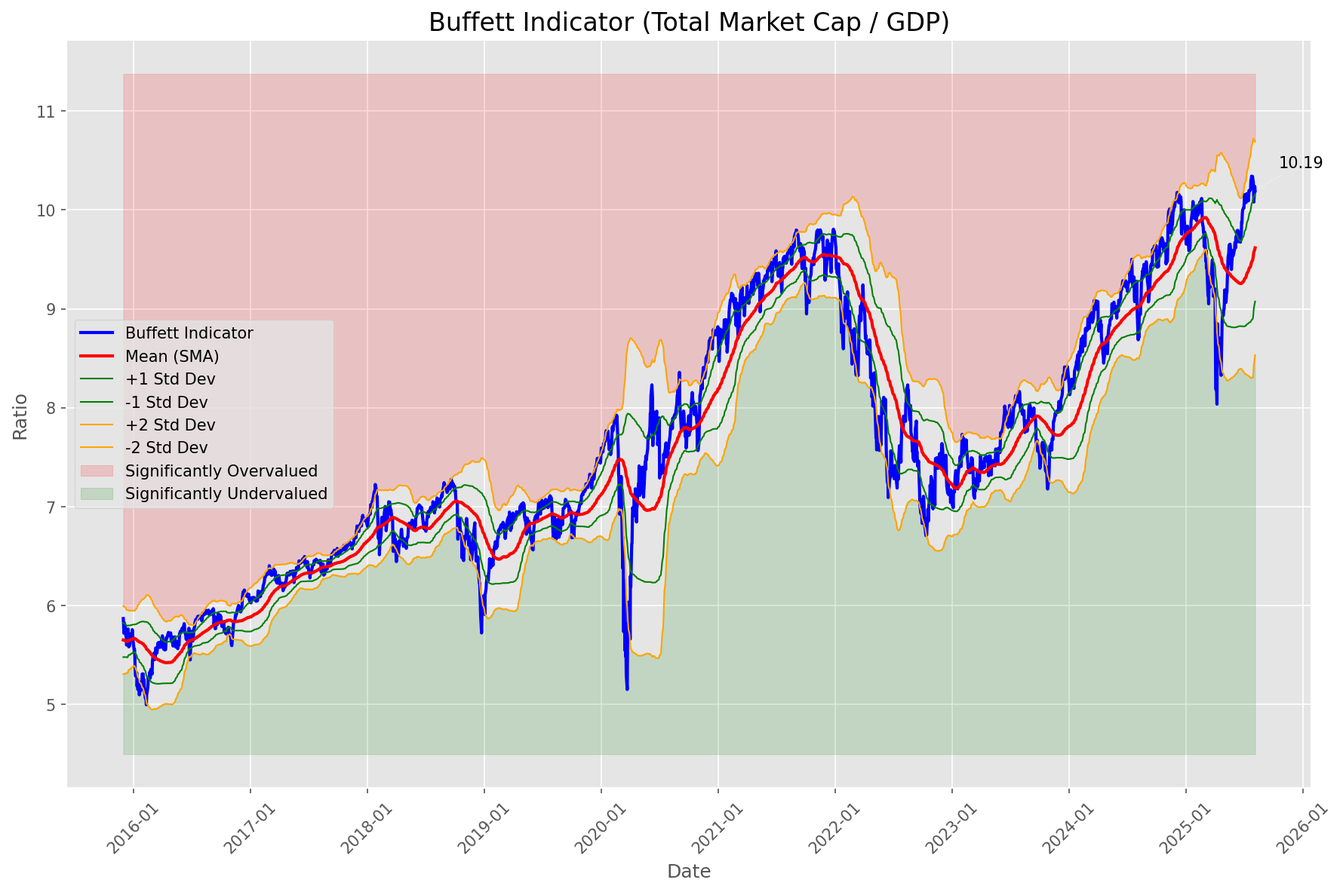
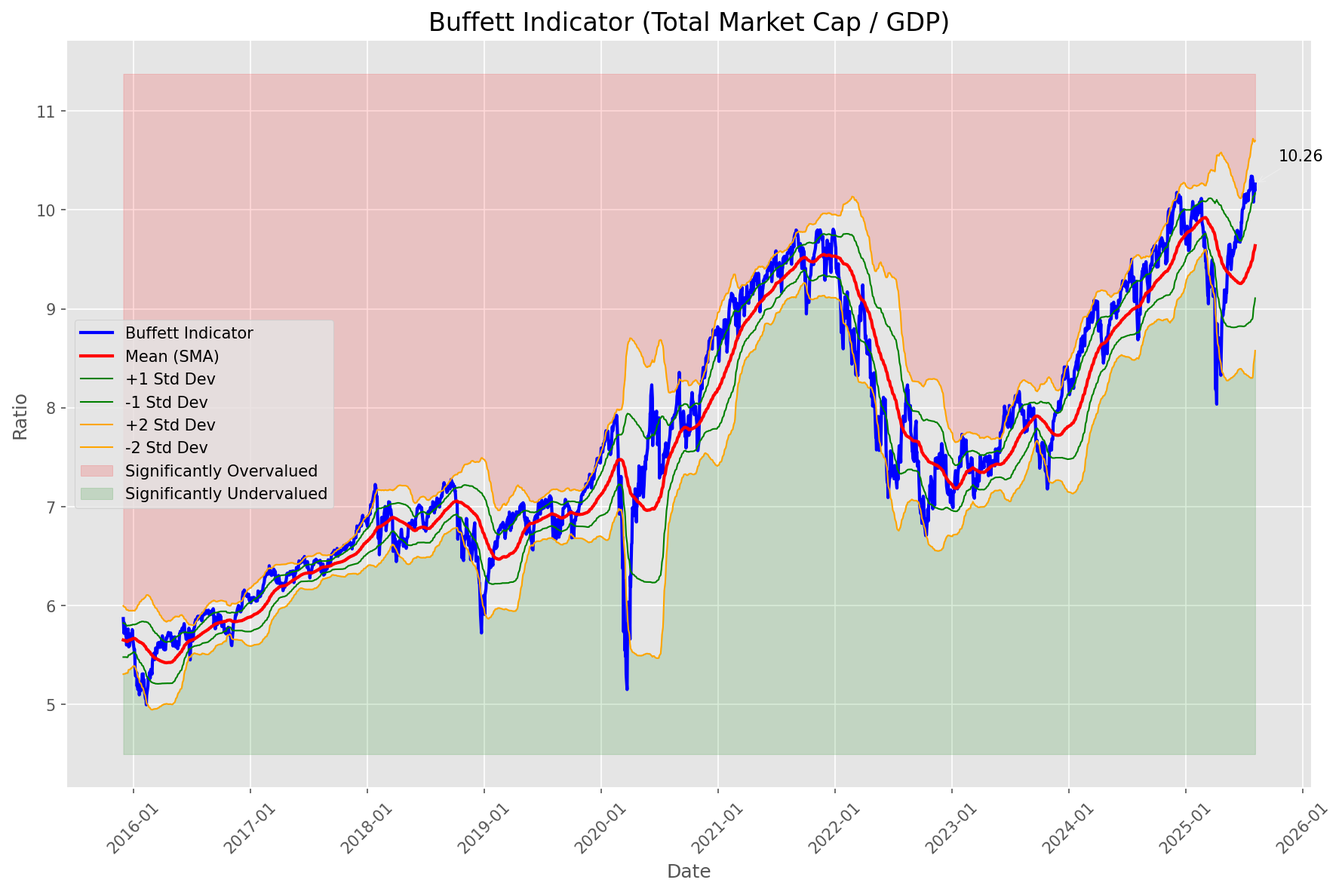
Add market report for 2025-08-07

diff --git a/oneil_relative_strength_report_2025-08-07.md b/oneil_relative_strength_report_2025-08-07.md
@@ -9,11 +9,11 @@
 | Metric | Value |
 |--------|-------|
 | **Market Valuation** | **Overvalued** |
-| **Current Ratio** | 10.26 |
-| **Historical Mean** | 9.62 |
-| **Standard Deviation** | 0.54 |
-| **Z-Score (StdDev from Mean)** | 1.06 |
-| **Total Market Cap** | $311.25 trillion |
+| **Current Ratio** | 10.29 |
+| **Historical Mean** | 9.64 |
+| **Standard Deviation** | 0.53 |
+| **Z-Score (StdDev from Mean)** | 1.17 |
+| **Total Market Cap** | $312.01 trillion |
 | **GDP** | $30.33 trillion |
 
 ## **Market Insights**
@@ -49,41 +49,41 @@ Based on William O'Neil's Relative Strength Methodology
 
 | ETF | Strength | RS Rating | Performance | Above Key MAs | Trend | Sector |
 |-----|----------|-----------|-------------|--------------|-------|--------|
-| [URA](https://www.tradingview.com/chart/?symbol=URA) | 98.5 | 97.0 | 56.08% | 10d ✓, 50d ✓, 200d ✓ | ↗ | Uranium |
+| [ARKK](https://www.tradingview.com/chart/?symbol=ARKK) | 98.0 | 96.0 | 50.46% | 10d ✓, 50d ✓, 200d ✓ | ↗ | Innovation |
+| [ARKF](https://www.tradingview.com/chart/?symbol=ARKF) | 98.0 | 96.0 | 50.90% | 10d ✓, 50d ✓, 200d ✓ | ↗ | Fintech Innovation |
 | [ARKW](https://www.tradingview.com/chart/?symbol=ARKW) | 98.0 | 96.0 | 53.80% | 10d ✓, 50d ✓, 200d ✓ | ↗ | Next Generation Internet |
-| [ARKF](https://www.tradingview.com/chart/?symbol=ARKF) | 98.0 | 96.0 | 50.77% | 10d ✓, 50d ✓, 200d ✓ | ↗ | Fintech Innovation |
-| [XLK](https://www.tradingview.com/chart/?symbol=XLK) | 91.5 | 83.0 | 23.11% | 10d ✓, 50d ✓, 200d ✓ | ↗ | Technology |
-| [ARKK](https://www.tradingview.com/chart/?symbol=ARKK) | 88.1 | 96.0 | 52.03% | 10d ✗, 50d ✓, 200d ✓ | ↗ | Innovation |
-| [AIQ](https://www.tradingview.com/chart/?symbol=AIQ) | 88.0 | 76.0 | 18.16% | 10d ✓, 50d ✓, 200d ✓ | ↗ | Artificial Intelligence & Technology |
+| [URA](https://www.tradingview.com/chart/?symbol=URA) | 98.0 | 96.0 | 51.40% | 10d ✓, 50d ✓, 200d ✓ | ↗ | Uranium |
+| [XLK](https://www.tradingview.com/chart/?symbol=XLK) | 91.0 | 82.0 | 22.87% | 10d ✓, 50d ✓, 200d ✓ | ↗ | Technology |
+| [AIQ](https://www.tradingview.com/chart/?symbol=AIQ) | 88.5 | 77.0 | 18.73% | 10d ✓, 50d ✓, 200d ✓ | ↗ | Artificial Intelligence & Technology |
+| [SLV](https://www.tradingview.com/chart/?symbol=SLV) | 88.0 | 76.0 | 17.94% | 10d ✓, 50d ✓, 200d ✓ | ↗ | Silver |
 | [BLOK](https://www.tradingview.com/chart/?symbol=BLOK) | 86.6 | 93.0 | 38.74% | 10d ✗, 50d ✓, 200d ✓ | ↗ | Blockchain & Cryptocurrency |
-| [SLV](https://www.tradingview.com/chart/?symbol=SLV) | 85.0 | 70.0 | 13.67% | 10d ✓, 50d ✓, 200d ✓ | ↗ | Silver |
-| [XLY](https://www.tradingview.com/chart/?symbol=XLY) | 84.0 | 68.0 | 13.12% | 10d ✓, 50d ✓, 200d ✓ | ↗ | Consumer Discretionary |
-| [XLC](https://www.tradingview.com/chart/?symbol=XLC) | 81.0 | 62.0 | 10.35% | 10d ✓, 50d ✓, 200d ✓ | ↗ | Communications |
+| [XLY](https://www.tradingview.com/chart/?symbol=XLY) | 83.5 | 67.0 | 12.35% | 10d ✓, 50d ✓, 200d ✓ | ↗ | Consumer Discretionary |
+| [XLC](https://www.tradingview.com/chart/?symbol=XLC) | 81.0 | 62.0 | 10.43% | 10d ✓, 50d ✓, 200d ✓ | ↗ | Communications |
 | [IYZ](https://www.tradingview.com/chart/?symbol=IYZ) | 80.5 | 61.0 | 9.82% | 10d ✓, 50d ✓, 200d ✓ | ↗ | Telecommunications |
-| [PAVE](https://www.tradingview.com/chart/?symbol=PAVE) | 76.6 | 73.0 | 15.51% | 10d ✗, 50d ✓, 200d ✓ | ↗ | Infrastructure |
-| [XLU](https://www.tradingview.com/chart/?symbol=XLU) | 76.0 | 52.0 | 6.33% | 10d ✓, 50d ✓, 200d ✓ | ↗ | Utilities |
-| [JETS](https://www.tradingview.com/chart/?symbol=JETS) | 75.6 | 71.0 | 14.46% | 10d ✗, 50d ✓, 200d ✓ | ↗ | Airlines |
-| [KWEB](https://www.tradingview.com/chart/?symbol=KWEB) | 75.0 | 50.0 | 5.83% | 10d ✓, 50d ✓, 200d ✓ | ↗ | Chinese Internet |
-| [XLI](https://www.tradingview.com/chart/?symbol=XLI) | 74.1 | 68.0 | 13.08% | 10d ✗, 50d ✓, 200d ✓ | ↗ | Industrial |
-| [XLF](https://www.tradingview.com/chart/?symbol=XLF) | 65.1 | 50.0 | 5.68% | 10d ✗, 50d ✓, 200d ✓ | ↗ | Financial |
-| [ITB](https://www.tradingview.com/chart/?symbol=ITB) | 64.5 | 69.0 | 13.22% | 10d ✓, 50d ✓, 200d ✓ | ↘ | Home Construction |
-| [SOXX](https://www.tradingview.com/chart/?symbol=SOXX) | 63.1 | 86.0 | 26.86% | 10d ✗, 50d ✓, 200d ✓ | ↘ | Semiconductors |
-| [GLD](https://www.tradingview.com/chart/?symbol=GLD) | 62.0 | 24.0 | -1.58% | 10d ✓, 50d ✓, 200d ✓ | ↗ | Gold |
-| [CIBR](https://www.tradingview.com/chart/?symbol=CIBR) | 57.2 | 54.0 | 7.29% | 10d ✗, 50d ✗, 200d ✓ | ↗ | Cybersecurity |
-| [ICLN](https://www.tradingview.com/chart/?symbol=ICLN) | 55.6 | 71.0 | 14.57% | 10d ✗, 50d ✓, 200d ✓ | ↘ | Clean Energy |
+| [KWEB](https://www.tradingview.com/chart/?symbol=KWEB) | 79.0 | 58.0 | 8.69% | 10d ✓, 50d ✓, 200d ✓ | ↗ | Chinese Internet |
+| [PAVE](https://www.tradingview.com/chart/?symbol=PAVE) | 76.6 | 73.0 | 15.73% | 10d ✗, 50d ✓, 200d ✓ | ↗ | Infrastructure |
+| [XLU](https://www.tradingview.com/chart/?symbol=XLU) | 76.0 | 52.0 | 6.76% | 10d ✓, 50d ✓, 200d ✓ | ↗ | Utilities |
+| [XLI](https://www.tradingview.com/chart/?symbol=XLI) | 73.6 | 67.0 | 12.21% | 10d ✗, 50d ✓, 200d ✓ | ↗ | Industrial |
+| [JETS](https://www.tradingview.com/chart/?symbol=JETS) | 72.6 | 65.0 | 11.51% | 10d ✗, 50d ✓, 200d ✓ | ↗ | Airlines |
+| [ICLN](https://www.tradingview.com/chart/?symbol=ICLN) | 66.5 | 73.0 | 15.65% | 10d ✓, 50d ✓, 200d ✓ | ↘ | Clean Energy |
+| [ITB](https://www.tradingview.com/chart/?symbol=ITB) | 65.5 | 71.0 | 14.36% | 10d ✓, 50d ✓, 200d ✓ | ↘ | Home Construction |
+| [GLD](https://www.tradingview.com/chart/?symbol=GLD) | 65.5 | 31.0 | 0.32% | 10d ✓, 50d ✓, 200d ✓ | ↗ | Gold |
+| [XLF](https://www.tradingview.com/chart/?symbol=XLF) | 63.6 | 47.0 | 4.80% | 10d ✗, 50d ✓, 200d ✓ | ↗ | Financial |
+| [SOXX](https://www.tradingview.com/chart/?symbol=SOXX) | 63.1 | 86.0 | 26.96% | 10d ✗, 50d ✓, 200d ✓ | ↘ | Semiconductors |
+| [CIBR](https://www.tradingview.com/chart/?symbol=CIBR) | 54.7 | 49.0 | 5.39% | 10d ✗, 50d ✗, 200d ✓ | ↗ | Cybersecurity |
 | [IYT](https://www.tradingview.com/chart/?symbol=IYT) | 51.6 | 63.0 | 10.67% | 10d ✗, 50d ✓, 200d ✓ | ↘ | Transportation |
-| [XLP](https://www.tradingview.com/chart/?symbol=XLP) | 45.0 | 30.0 | 0.33% | 10d ✓, 50d ✓, 200d ✓ | ↘ | Consumer Staples |
-| [IBB](https://www.tradingview.com/chart/?symbol=IBB) | 41.9 | 64.0 | 10.87% | 10d ✗, 50d ✓, 200d ✗ | ↘ | Biotechnology |
-| [DBA](https://www.tradingview.com/chart/?symbol=DBA) | 39.9 | 20.0 | -3.24% | 10d ✓, 50d ✗, 200d ✗ | ↗ | Agriculture |
-| [TLT](https://www.tradingview.com/chart/?symbol=TLT) | 34.8 | 30.0 | 0.33% | 10d ✓, 50d ✓, 200d ✗ | ↘ | Long-term Treasuries |
-| [ARKG](https://www.tradingview.com/chart/?symbol=ARKG) | 34.5 | 69.0 | 13.52% | 10d ✗, 50d ✗, 200d ✗ | ↘ | Genomics |
-| [UUP](https://www.tradingview.com/chart/?symbol=UUP) | 24.9 | 30.0 | 0.33% | 10d ✗, 50d ✓, 200d ✗ | ↘ | U.S. Dollar |
-| [XLE](https://www.tradingview.com/chart/?symbol=XLE) | 24.0 | 48.0 | 5.22% | 10d ✗, 50d ✗, 200d ✗ | ↘ | Energy |
-| [XLB](https://www.tradingview.com/chart/?symbol=XLB) | 23.0 | 46.0 | 4.59% | 10d ✗, 50d ✗, 200d ✗ | ↘ | Materials |
-| [DBC](https://www.tradingview.com/chart/?symbol=DBC) | 22.0 | 44.0 | 3.91% | 10d ✗, 50d ✗, 200d ✗ | ↘ | Commodities |
-| [IYR](https://www.tradingview.com/chart/?symbol=IYR) | 17.5 | 35.0 | 1.18% | 10d ✗, 50d ✗, 200d ✗ | ↘ | Real Estate |
-| [BIL](https://www.tradingview.com/chart/?symbol=BIL) | 14.5 | 29.0 | 0.03% | 10d ✗, 50d ✗, 200d ✗ | ↘ | Short-term Treasuries |
-| [XLV](https://www.tradingview.com/chart/?symbol=XLV) | 10.5 | 21.0 | -2.84% | 10d ✗, 50d ✗, 200d ✗ | ↘ | Healthcare |
+| [XLP](https://www.tradingview.com/chart/?symbol=XLP) | 45.5 | 31.0 | 0.34% | 10d ✓, 50d ✓, 200d ✓ | ↘ | Consumer Staples |
+| [DBA](https://www.tradingview.com/chart/?symbol=DBA) | 40.4 | 21.0 | -3.24% | 10d ✓, 50d ✗, 200d ✗ | ↗ | Agriculture |
+| [IBB](https://www.tradingview.com/chart/?symbol=IBB) | 39.9 | 60.0 | 9.49% | 10d ✗, 50d ✓, 200d ✗ | ↘ | Biotechnology |
+| [TLT](https://www.tradingview.com/chart/?symbol=TLT) | 34.8 | 30.0 | 0.30% | 10d ✓, 50d ✓, 200d ✗ | ↘ | Long-term Treasuries |
+| [ARKG](https://www.tradingview.com/chart/?symbol=ARKG) | 32.0 | 64.0 | 11.05% | 10d ✗, 50d ✗, 200d ✗ | ↘ | Genomics |
+| [IYR](https://www.tradingview.com/chart/?symbol=IYR) | 27.9 | 36.0 | 1.40% | 10d ✗, 50d ✓, 200d ✗ | ↘ | Real Estate |
+| [XLE](https://www.tradingview.com/chart/?symbol=XLE) | 25.0 | 50.0 | 5.78% | 10d ✗, 50d ✗, 200d ✗ | ↘ | Energy |
+| [XLB](https://www.tradingview.com/chart/?symbol=XLB) | 24.5 | 49.0 | 5.49% | 10d ✗, 50d ✗, 200d ✗ | ↘ | Materials |
+| [UUP](https://www.tradingview.com/chart/?symbol=UUP) | 23.4 | 27.0 | -0.27% | 10d ✗, 50d ✓, 200d ✗ | ↘ | U.S. Dollar |
+| [DBC](https://www.tradingview.com/chart/?symbol=DBC) | 22.5 | 45.0 | 3.91% | 10d ✗, 50d ✗, 200d ✗ | ↘ | Commodities |
+| [BIL](https://www.tradingview.com/chart/?symbol=BIL) | 14.5 | 29.0 | 0.04% | 10d ✗, 50d ✗, 200d ✗ | ↘ | Short-term Treasuries |
+| [XLV](https://www.tradingview.com/chart/?symbol=XLV) | 8.5 | 17.0 | -5.25% | 10d ✗, 50d ✗, 200d ✗ | ↘ | Healthcare |
 
 ### **Sector ETF Performance Interpretation**
 
@@ -98,78 +98,79 @@ This table shows the relative strength metrics for different market sectors base
 
 ### **Current Sector Leadership**
 
-The current market leadership is coming from the following sectors: **Uranium, Next Generation Internet, Fintech Innovation**.
+The current market leadership is coming from the following sectors: **Innovation, Fintech Innovation, Next Generation Internet**.
 
-The **Uranium** sector (represented by **URA**) is showing particularly strong relative strength with an RS rating of 97.0 and performance of 56.08% vs. the S&P 500. This sector is trading above its 10-day, 50-day, 200-day moving average(s). Investors should consider focusing on high RS stocks within these leading sectors for potential outperformance.
+The **Innovation** sector (represented by **ARKK**) is showing particularly strong relative strength with an RS rating of 96.0 and performance of 50.46% vs. the S&P 500. This sector is trading above its 10-day, 50-day, 200-day moving average(s). Investors should consider focusing on high RS stocks within these leading sectors for potential outperformance.
 
 ---
 
 ## **Buy Recommendations**
 
-The following 61 stocks show exceptional relative strength:
+The following 62 stocks show exceptional relative strength:
 
 | RS Rating | Buy Score | Current Price | Chart | Name | Ticker |
 |-----------|-----------|---------------|-------|------|--------|
-| 100 | 100 | $232.39 | [Chart](https://www.tradingview.com/chart/?symbol=LEU) | Centrus Energy Corp. | LEU |
-| 100 | 100 | $105.65 | [Chart](https://www.tradingview.com/chart/?symbol=HOOD) | Robinhood Markets, Inc. Class A Common Stock | HOOD |
-| 100 | 100 | $67.51 | [Chart](https://www.tradingview.com/chart/?symbol=MP) | MP Materials Corp. | MP |
-| 100 | 100 | $198.63 | [Chart](https://www.tradingview.com/chart/?symbol=CLS) | Celestica, Inc. | CLS |
-| 100 | 100 | $117.34 | [Chart](https://www.tradingview.com/chart/?symbol=CRDO) | Credo Technology Group Holding Ltd Ordinary Shares | CRDO |
-| 99 | 100 | $215.53 | [Chart](https://www.tradingview.com/chart/?symbol=NET) | Cloudflare, Inc. Class A common stock, par value $0.001 per share | NET |
+| 100 | 100 | $224.79 | [Chart](https://www.tradingview.com/chart/?symbol=LEU) | Centrus Energy Corp. | LEU |
+| 100 | 100 | $202.63 | [Chart](https://www.tradingview.com/chart/?symbol=CLS) | Celestica, Inc. | CLS |
+| 100 | 100 | $120.14 | [Chart](https://www.tradingview.com/chart/?symbol=CRDO) | Credo Technology Group Holding Ltd Ordinary Shares | CRDO |
+| 100 | 100 | $110.54 | [Chart](https://www.tradingview.com/chart/?symbol=HOOD) | Robinhood Markets, Inc. Class A Common Stock | HOOD |
+| 100 | 100 | $38.27 | [Chart](https://www.tradingview.com/chart/?symbol=GRPN) | Groupon, Inc.Common Stock | GRPN |
+| 100 | 100 | $70.69 | [Chart](https://www.tradingview.com/chart/?symbol=MP) | MP Materials Corp. | MP |
+| 99 | 100 | $216.92 | [Chart](https://www.tradingview.com/chart/?symbol=NET) | Cloudflare, Inc. Class A common stock, par value $0.001 per share | NET |
 | 99 | 100 | $77.75 | [Chart](https://www.tradingview.com/chart/?symbol=LIF) | Life360, Inc. Common Stock | LIF |
-| 99 | 100 | $134.14 | [Chart](https://www.tradingview.com/chart/?symbol=RBLX) | Roblox Corporation | RBLX |
-| 98 | 100 | $58.93 | [Chart](https://www.tradingview.com/chart/?symbol=KTOS) | Kratos Defense & Security Solutions, Inc. | KTOS |
+| 99 | 100 | $133.88 | [Chart](https://www.tradingview.com/chart/?symbol=RBLX) | Roblox Corporation | RBLX |
+| 98 | 100 | $375.00 | [Chart](https://www.tradingview.com/chart/?symbol=TLN) | Talen Energy Corporation Common Stock | TLN |
 | 98 | 100 | $190.76 | [Chart](https://www.tradingview.com/chart/?symbol=COOP) | Mr. Cooper Group Inc. Common Stock | COOP |
-| 98 | 100 | $179.54 | [Chart](https://www.tradingview.com/chart/?symbol=PLTR) | Palantir Technologies Inc. Class A Common Stock | PLTR |
-| 98 | 100 | $664.55 | [Chart](https://www.tradingview.com/chart/?symbol=GEV) | GE Vernova Inc. | GEV |
-| 97 | 100 | $378.67 | [Chart](https://www.tradingview.com/chart/?symbol=TLN) | Talen Energy Corporation Common Stock | TLN |
-| 96 | 100 | $35.37 | [Chart](https://www.tradingview.com/chart/?symbol=ATRO) | Astronics Corp | ATRO |
-| 96 | 100 | $112.15 | [Chart](https://www.tradingview.com/chart/?symbol=TPR) | Tapestry, Inc. Common Stock | TPR |
-| 96 | 100 | $53.87 | [Chart](https://www.tradingview.com/chart/?symbol=ARKF) | ARK Fintech Innovation ETF | ARKF |
-| 96 | 100 | $105.39 | [Chart](https://www.tradingview.com/chart/?symbol=VRNA) | Verona Pharma plc | VRNA |
-| 96 | 100 | $38.98 | [Chart](https://www.tradingview.com/chart/?symbol=AS) | Amer Sports, Inc. | AS |
-| 96 | 100 | $38.29 | [Chart](https://www.tradingview.com/chart/?symbol=NNE) | Nano Nuclear Energy Inc. Common Stock | NNE |
+| 98 | 100 | $182.87 | [Chart](https://www.tradingview.com/chart/?symbol=PLTR) | Palantir Technologies Inc. Class A Common Stock | PLTR |
+| 98 | 100 | $659.50 | [Chart](https://www.tradingview.com/chart/?symbol=GEV) | GE Vernova Inc. | GEV |
+| 97 | 100 | $159.01 | [Chart](https://www.tradingview.com/chart/?symbol=FUTU) | Futu Holdings Limited American Depositary Shares | FUTU |
+| 97 | 100 | $37.58 | [Chart](https://www.tradingview.com/chart/?symbol=NNE) | Nano Nuclear Energy Inc. Common Stock | NNE |
+| 96 | 100 | $117.51 | [Chart](https://www.tradingview.com/chart/?symbol=SANM) | Sanmina  Corp | SANM |
+| 96 | 100 | $54.58 | [Chart](https://www.tradingview.com/chart/?symbol=ARKF) | ARK Fintech Innovation ETF | ARKF |
 | 96 | 100 | $157.09 | [Chart](https://www.tradingview.com/chart/?symbol=ARKW) | ARK Next Generation Internet ETF | ARKW |
-| 95 | 100 | $28.90 | [Chart](https://www.tradingview.com/chart/?symbol=KAR) | OPENLANE, Inc | KAR |
-| 95 | 100 | $117.51 | [Chart](https://www.tradingview.com/chart/?symbol=SANM) | Sanmina  Corp | SANM |
-| 94 | 100 | $51.28 | [Chart](https://www.tradingview.com/chart/?symbol=BBW) | Build-A-Bear Workshop, Inc. | BBW |
+| 95 | 100 | $259.97 | [Chart](https://www.tradingview.com/chart/?symbol=DASH) | DoorDash, Inc. Class A Common Stock | DASH |
+| 95 | 100 | $22.58 | [Chart](https://www.tradingview.com/chart/?symbol=MAG) | MAG Silver Corp. | MAG |
+| 95 | 100 | $28.48 | [Chart](https://www.tradingview.com/chart/?symbol=KAR) | OPENLANE, Inc | KAR |
+| 95 | 100 | $207.44 | [Chart](https://www.tradingview.com/chart/?symbol=VST) | Vistra Corp. | VST |
+| 95 | 100 | $449.01 | [Chart](https://www.tradingview.com/chart/?symbol=APP) | Applovin Corporation Class A Common Stock | APP |
 | 94 | 100 | $90.01 | [Chart](https://www.tradingview.com/chart/?symbol=RYTM) | Rhythm Pharmaceuticals, Inc. Common Stock | RYTM |
-| 94 | 100 | $863.65 | [Chart](https://www.tradingview.com/chart/?symbol=AXON) | Axon Enterprise, Inc. Common Stock | AXON |
-| 94 | 100 | $51.36 | [Chart](https://www.tradingview.com/chart/?symbol=PTCT) | PTC Therapeutics, Inc. | PTCT |
+| 94 | 100 | $867.33 | [Chart](https://www.tradingview.com/chart/?symbol=AXON) | Axon Enterprise, Inc. Common Stock | AXON |
 | 94 | 100 | $92.68 | [Chart](https://www.tradingview.com/chart/?symbol=TPB) | Turning Point Brands, Inc. | TPB |
-| 93 | 100 | $49.76 | [Chart](https://www.tradingview.com/chart/?symbol=REVG) | REV Group, Inc. | REVG |
-| 93 | 100 | $109.50 | [Chart](https://www.tradingview.com/chart/?symbol=APH) | Amphenol Corporation | APH |
-| 93 | 100 | $21.68 | [Chart](https://www.tradingview.com/chart/?symbol=MAG) | MAG Silver Corp. | MAG |
-| 93 | 100 | $509.32 | [Chart](https://www.tradingview.com/chart/?symbol=CW) | Curtiss-Wright Corp. | CW |
-| 92 | 100 | $258.08 | [Chart](https://www.tradingview.com/chart/?symbol=DASH) | DoorDash, Inc. Class A Common Stock | DASH |
-| 92 | 100 | $354.89 | [Chart](https://www.tradingview.com/chart/?symbol=CVNA) | Carvana Co. | CVNA |
-| 91 | 100 | $156.19 | [Chart](https://www.tradingview.com/chart/?symbol=VSEC) | VSE Corp | VSEC |
-| 90 | 100 | $92.54 | [Chart](https://www.tradingview.com/chart/?symbol=EBAY) | eBay Inc | EBAY |
-| 90 | 100 | $38.72 | [Chart](https://www.tradingview.com/chart/?symbol=ZLAB) | Zai Lab Limited American Depositary Shares | ZLAB |
-| 90 | 100 | $58.28 | [Chart](https://www.tradingview.com/chart/?symbol=AU) | AngloGold Ashanti plc | AU |
-| 89 | 100 | $272.28 | [Chart](https://www.tradingview.com/chart/?symbol=GE) | GE Aerospace | GE |
-| 89 | 100 | $34.73 | [Chart](https://www.tradingview.com/chart/?symbol=DB) | Deutsche Bank Aktiengesellschaft | DB |
+| 93 | 100 | $51.28 | [Chart](https://www.tradingview.com/chart/?symbol=BBW) | Build-A-Bear Workshop, Inc. | BBW |
+| 93 | 100 | $51.36 | [Chart](https://www.tradingview.com/chart/?symbol=PTCT) | PTC Therapeutics, Inc. | PTCT |
+| 93 | 100 | $365.85 | [Chart](https://www.tradingview.com/chart/?symbol=CVNA) | Carvana Co. | CVNA |
+| 91 | 100 | $92.51 | [Chart](https://www.tradingview.com/chart/?symbol=GDXU) | MicroSectors Gold Miners 3x Leveraged ETN | GDXU |
+| 91 | 100 | $108.97 | [Chart](https://www.tradingview.com/chart/?symbol=APH) | Amphenol Corporation | APH |
+| 91 | 100 | $93.14 | [Chart](https://www.tradingview.com/chart/?symbol=EBAY) | eBay Inc | EBAY |
+| 90 | 100 | $35.47 | [Chart](https://www.tradingview.com/chart/?symbol=DB) | Deutsche Bank Aktiengesellschaft | DB |
+| 90 | 100 | $156.19 | [Chart](https://www.tradingview.com/chart/?symbol=VSEC) | VSE Corp | VSEC |
+| 90 | 100 | $57.97 | [Chart](https://www.tradingview.com/chart/?symbol=AU) | AngloGold Ashanti plc | AU |
 | 89 | 100 | $42.99 | [Chart](https://www.tradingview.com/chart/?symbol=LTM) | LATAM Airlines Group S.A. American Depositary Shares (each representing two thousand (2,000) shares of Common Stock) | LTM |
-| 89 | 99 | $20.31 | [Chart](https://www.tradingview.com/chart/?symbol=LQDA) | Liquidia Corporation Common Stock | LQDA |
-| 88 | 98 | $390.57 | [Chart](https://www.tradingview.com/chart/?symbol=APP) | Applovin Corporation Class A Common Stock | APP |
-| 88 | 98 | $130.22 | [Chart](https://www.tradingview.com/chart/?symbol=TWLO) | Twilio Inc. | TWLO |
-| 86 | 98 | $56.40 | [Chart](https://www.tradingview.com/chart/?symbol=BTI) | British American Tobacco p.l.c. American Depositary Shares, American Depositary Shares, each representing one Ordinary Share | BTI |
+| 89 | 100 | $34.50 | [Chart](https://www.tradingview.com/chart/?symbol=ATAT) | Atour Lifestyle Holdings Limited American Depositary Shares | ATAT |
+| 89 | 99 | $53.48 | [Chart](https://www.tradingview.com/chart/?symbol=SIL) | Global X Silver Miners ETF (NEW) | SIL |
+| 89 | 99 | $724.57 | [Chart](https://www.tradingview.com/chart/?symbol=GS) | Goldman Sachs Group Inc. | GS |
+| 88 | 99 | $51.30 | [Chart](https://www.tradingview.com/chart/?symbol=GH) | Guardant Health, Inc. Common Stock | GH |
+| 86 | 99 | $270.25 | [Chart](https://www.tradingview.com/chart/?symbol=IDCC) | InterDigital, Inc. | IDCC |
+| 86 | 98 | $56.11 | [Chart](https://www.tradingview.com/chart/?symbol=BTI) | British American Tobacco p.l.c. American Depositary Shares, American Depositary Shares, each representing one Ordinary Share | BTI |
+| 87 | 97 | $19.78 | [Chart](https://www.tradingview.com/chart/?symbol=LQDA) | Liquidia Corporation Common Stock | LQDA |
 | 87 | 97 | $190.87 | [Chart](https://www.tradingview.com/chart/?symbol=AWI) | Armstrong World Industries, Inc. | AWI |
-| 86 | 97 | $84.68 | [Chart](https://www.tradingview.com/chart/?symbol=USFD) | US Foods Holding Corp. | USFD |
-| 83 | 96 | $91.77 | [Chart](https://www.tradingview.com/chart/?symbol=RBRK) | Rubrik, Inc. | RBRK |
-| 85 | 95 | $52.79 | [Chart](https://www.tradingview.com/chart/?symbol=AKRO) | Akero Therapeutics, Inc. Common Stock | AKRO |
-| 83 | 95 | $102.29 | [Chart](https://www.tradingview.com/chart/?symbol=BK) | Bank of New York Mellon Corporation | BK |
-| 82 | 95 | $57.14 | [Chart](https://www.tradingview.com/chart/?symbol=ERJ) | Embraer S.A. | ERJ |
-| 81 | 95 | $19.56 | [Chart](https://www.tradingview.com/chart/?symbol=BCS) | Barclays PLC | BCS |
+| 85 | 97 | $30.13 | [Chart](https://www.tradingview.com/chart/?symbol=OR) | OR Royalties Inc. | OR |
+| 83 | 97 | $19.64 | [Chart](https://www.tradingview.com/chart/?symbol=BCS) | Barclays PLC | BCS |
+| 85 | 96 | $30.90 | [Chart](https://www.tradingview.com/chart/?symbol=PAAS) | Pan American Silver Corp. | PAAS |
 | 81 | 95 | $39.65 | [Chart](https://www.tradingview.com/chart/?symbol=AHR) | American Healthcare REIT, Inc. | AHR |
-| 84 | 94 | $51.79 | [Chart](https://www.tradingview.com/chart/?symbol=SIL) | Global X Silver Miners ETF (NEW) | SIL |
-| 82 | 94 | $29.68 | [Chart](https://www.tradingview.com/chart/?symbol=OR) | OR Royalties Inc. | OR |
-| 83 | 93 | $96.56 | [Chart](https://www.tradingview.com/chart/?symbol=NDAQ) | Nasdaq, Inc. Common Stock | NDAQ |
-| 82 | 92 | $263.73 | [Chart](https://www.tradingview.com/chart/?symbol=WTS) | Watts Water Technologies, Inc. Class A | WTS |
+| 84 | 94 | $128.93 | [Chart](https://www.tradingview.com/chart/?symbol=TWLO) | Twilio Inc. | TWLO |
+| 82 | 94 | $102.34 | [Chart](https://www.tradingview.com/chart/?symbol=BK) | Bank of New York Mellon Corporation | BK |
+| 83 | 93 | $97.16 | [Chart](https://www.tradingview.com/chart/?symbol=NDAQ) | Nasdaq, Inc. Common Stock | NDAQ |
+| 82 | 93 | $26.81 | [Chart](https://www.tradingview.com/chart/?symbol=TFPM) | Triple Flag Precious Metals Corp. | TFPM |
+| 82 | 93 | $227.30 | [Chart](https://www.tradingview.com/chart/?symbol=BA) | Boeing Company | BA |
+| 82 | 93 | $263.73 | [Chart](https://www.tradingview.com/chart/?symbol=WTS) | Watts Water Technologies, Inc. Class A | WTS |
+| 81 | 93 | $321.23 | [Chart](https://www.tradingview.com/chart/?symbol=FFIV) | F5, Inc. Common Stock | FFIV |
+| 80 | 93 | $56.79 | [Chart](https://www.tradingview.com/chart/?symbol=ERJ) | Embraer S.A. | ERJ |
 | 82 | 92 | $51.45 | [Chart](https://www.tradingview.com/chart/?symbol=FHI) | Federated Hermes, Inc. | FHI |
 | 81 | 92 | $115.01 | [Chart](https://www.tradingview.com/chart/?symbol=SXT) | Sensient Technology Corporation | SXT |
-| 80 | 92 | $321.23 | [Chart](https://www.tradingview.com/chart/?symbol=FFIV) | F5, Inc. Common Stock | FFIV |
-| 81 | 91 | $89.33 | [Chart](https://www.tradingview.com/chart/?symbol=GDXU) | MicroSectors Gold Miners 3x Leveraged ETN | GDXU |
+| 81 | 91 | $17.78 | [Chart](https://www.tradingview.com/chart/?symbol=DAN) | Dana Incorporated | DAN |
+| 80 | 91 | $66.11 | [Chart](https://www.tradingview.com/chart/?symbol=IBIT) | iShares Bitcoin Trust ETF | IBIT |
+| 80 | 91 | $34.99 | [Chart](https://www.tradingview.com/chart/?symbol=APG) | APi Group Corporation | APG |
 | 80 | 91 | $147.37 | [Chart](https://www.tradingview.com/chart/?symbol=PPA) | Invesco Aerospace & Defense ETF | PPA |
 
 ---
@@ -177,48 +178,55 @@ The following 61 stocks show exceptional relative strength:
 
 ## **Sell Recommendations**
 
-The following 38 stocks show deteriorating relative strength:
+The following 45 stocks show deteriorating relative strength:
 
 | RS Rating | Sell Score | Current Price | Chart | Name | Ticker |
 |-----------|------------|---------------|-------|------|--------|
-| 1 | 100 | $11.86 | [Chart](https://www.tradingview.com/chart/?symbol=NVDS) | Investment Managers Series Trust II Tradr 1.5X Short NVDA Daily ETF | NVDS |
-| 2 | 100 | $16.25 | [Chart](https://www.tradingview.com/chart/?symbol=DJT) | Trump Media & Technology Group Corp. Common Stock | DJT |
-| 2 | 100 | $13.86 | [Chart](https://www.tradingview.com/chart/?symbol=CLBT) | Cellebrite DI Ltd. Class A Ordinary Shares | CLBT |
-| 4 | 100 | $41.48 | [Chart](https://www.tradingview.com/chart/?symbol=SDOW) | ProShares UltraPro Short Dow 30 | SDOW |
+| 1 | 100 | $11.54 | [Chart](https://www.tradingview.com/chart/?symbol=NVDS) | Investment Managers Series Trust II Tradr 1.5X Short NVDA Daily ETF | NVDS |
+| 2 | 100 | $13.78 | [Chart](https://www.tradingview.com/chart/?symbol=CLBT) | Cellebrite DI Ltd. Class A Ordinary Shares | CLBT |
+| 2 | 100 | $16.33 | [Chart](https://www.tradingview.com/chart/?symbol=DJT) | Trump Media & Technology Group Corp. Common Stock | DJT |
+| 3 | 100 | $39.89 | [Chart](https://www.tradingview.com/chart/?symbol=PRCT) | PROCEPT BioRobotics Corporation Common Stock | PRCT |
+| 3 | 100 | $39.59 | [Chart](https://www.tradingview.com/chart/?symbol=INTA) | Intapp, Inc. Common Stock | INTA |
 | 4 | 100 | $24.34 | [Chart](https://www.tradingview.com/chart/?symbol=TBBB) | BBB Foods Inc. | TBBB |
-| 6 | 100 | $10.37 | [Chart](https://www.tradingview.com/chart/?symbol=OEC) | Orion S.A. | OEC |
-| 7 | 100 | $24.29 | [Chart](https://www.tradingview.com/chart/?symbol=DXD) | ProShares UltraShort Dow 30 | DXD |
-| 7 | 100 | $45.69 | [Chart](https://www.tradingview.com/chart/?symbol=PRCT) | PROCEPT BioRobotics Corporation Common Stock | PRCT |
+| 5 | 100 | $41.66 | [Chart](https://www.tradingview.com/chart/?symbol=SDOW) | ProShares UltraPro Short Dow 30 | SDOW |
+| 7 | 100 | $10.26 | [Chart](https://www.tradingview.com/chart/?symbol=OEC) | Orion S.A. | OEC |
+| 7 | 100 | $11.24 | [Chart](https://www.tradingview.com/chart/?symbol=SHC) | Sotera Health Company Common Stock | SHC |
+| 8 | 100 | $24.35 | [Chart](https://www.tradingview.com/chart/?symbol=DXD) | ProShares UltraShort Dow 30 | DXD |
+| 9 | 100 | $38.95 | [Chart](https://www.tradingview.com/chart/?symbol=SH) | ProShares Short S&P500 | SH |
 | 10 | 100 | $36.69 | [Chart](https://www.tradingview.com/chart/?symbol=LZB) | La-Z-Boy Incorporated | LZB |
+| 12 | 100 | $42.17 | [Chart](https://www.tradingview.com/chart/?symbol=BILL) | BILL Holdings, Inc. | BILL |
 | 12 | 100 | $16.35 | [Chart](https://www.tradingview.com/chart/?symbol=CTO) | CTO Realty Growth, Inc. | CTO |
-| 13 | 100 | $31.34 | [Chart](https://www.tradingview.com/chart/?symbol=JD) | JD.com, Inc. | JD |
+| 15 | 100 | $31.57 | [Chart](https://www.tradingview.com/chart/?symbol=JD) | JD.com, Inc. | JD |
 | 10 | 99 | $54.94 | [Chart](https://www.tradingview.com/chart/?symbol=HRB) | H&R Block, Inc. | HRB |
-| 9 | 98 | $39.03 | [Chart](https://www.tradingview.com/chart/?symbol=SH) | ProShares Short S&P500 | SH |
-| 9 | 95 | $20.05 | [Chart](https://www.tradingview.com/chart/?symbol=GAP) | The Gap, Inc. | GAP |
-| 15 | 94 | $42.22 | [Chart](https://www.tradingview.com/chart/?symbol=BILL) | BILL Holdings, Inc. | BILL |
+| 8 | 98 | $20.25 | [Chart](https://www.tradingview.com/chart/?symbol=GAP) | The Gap, Inc. | GAP |
+| 10 | 96 | $17.04 | [Chart](https://www.tradingview.com/chart/?symbol=S) | SentinelOne, Inc. | S |
+| 13 | 93 | $230.14 | [Chart](https://www.tradingview.com/chart/?symbol=WDAY) | Workday, Inc. Class A Common Stock | WDAY |
 | 14 | 93 | $13.06 | [Chart](https://www.tradingview.com/chart/?symbol=GOOD) | Gladstone Commercial Corporation - REIT | GOOD |
-| 15 | 93 | $13.52 | [Chart](https://www.tradingview.com/chart/?symbol=EWTX) | Edgewise Therapeutics, Inc. Common Stock | EWTX |
 | 10 | 92 | $15.34 | [Chart](https://www.tradingview.com/chart/?symbol=PLSE) | Pulse Biosciences, Inc Common Stock (DE) | PLSE |
+| 16 | 92 | $13.52 | [Chart](https://www.tradingview.com/chart/?symbol=EWTX) | Edgewise Therapeutics, Inc. Common Stock | EWTX |
 | 18 | 92 | $22.48 | [Chart](https://www.tradingview.com/chart/?symbol=CURB) | Curbline Properties Corp. | CURB |
-| 14 | 88 | $229.08 | [Chart](https://www.tradingview.com/chart/?symbol=WDAY) | Workday, Inc. Class A Common Stock | WDAY |
-| 16 | 88 | $36.83 | [Chart](https://www.tradingview.com/chart/?symbol=PBA) | PEMBINA PIPELINE CORPORATION | PBA |
+| 16 | 90 | $37.07 | [Chart](https://www.tradingview.com/chart/?symbol=PBA) | PEMBINA PIPELINE CORPORATION | PBA |
+| 21 | 89 | $46.16 | [Chart](https://www.tradingview.com/chart/?symbol=EDU) | New Oriental Education and Technology Group, Inc. American Depositary Shares (each representing ten (10) Common Shares) | EDU |
 | 18 | 88 | $12.16 | [Chart](https://www.tradingview.com/chart/?symbol=WSR) | Whitestone REIT | WSR |
 | 20 | 88 | $13.10 | [Chart](https://www.tradingview.com/chart/?symbol=CCRN) | Cross Country Healthcare Inc | CCRN |
-| 22 | 88 | $44.30 | [Chart](https://www.tradingview.com/chart/?symbol=EPI) | WisdomTree India Earnings Fund ETF | EPI |
-| 17 | 86 | $86.81 | [Chart](https://www.tradingview.com/chart/?symbol=BIDU) | Baidu, Inc. | BIDU |
+| 15 | 86 | $25.61 | [Chart](https://www.tradingview.com/chart/?symbol=DOG) | ProShares Short Dow30 | DOG |
 | 21 | 86 | $19.09 | [Chart](https://www.tradingview.com/chart/?symbol=AVBP) | ArriVent BioPharma, Inc. Common Stock | AVBP |
+| 26 | 86 | $44.65 | [Chart](https://www.tradingview.com/chart/?symbol=EPI) | WisdomTree India Earnings Fund ETF | EPI |
 | 19 | 85 | $17.35 | [Chart](https://www.tradingview.com/chart/?symbol=DIV) | Global X SuperDividend U.S. ETF | DIV |
 | 24 | 84 | $37.78 | [Chart](https://www.tradingview.com/chart/?symbol=VNO) | Vornado Realty Trust | VNO |
+| 18 | 83 | $61.18 | [Chart](https://www.tradingview.com/chart/?symbol=UL) | Unilever plc | UL |
 | 26 | 80 | $48.16 | [Chart](https://www.tradingview.com/chart/?symbol=FR) | First Industrial Realty Trust, Inc. | FR |
 | 29 | 80 | $50.25 | [Chart](https://www.tradingview.com/chart/?symbol=XHLF) | BondBloxx Bloomberg Six Month Target Duration US Treasury ETF | XHLF |
+| 33 | 75 | $89.68 | [Chart](https://www.tradingview.com/chart/?symbol=VNQ) | Vanguard Real Estate ETF | VNQ |
 | 28 | 74 | $23.70 | [Chart](https://www.tradingview.com/chart/?symbol=FFBC) | First Financial Bancorp | FFBC |
-| 29 | 72 | $23.30 | [Chart](https://www.tradingview.com/chart/?symbol=IBTF) | iShares iBonds Dec 2025 Term Treasury ETF | IBTF |
+| 28 | 73 | $23.30 | [Chart](https://www.tradingview.com/chart/?symbol=IBTF) | iShares iBonds Dec 2025 Term Treasury ETF | IBTF |
 | 31 | 72 | $30.75 | [Chart](https://www.tradingview.com/chart/?symbol=FLRN) | SPDR Bloomberg Investment Grade Floating Rate ETF | FLRN |
-| 33 | 71 | $89.54 | [Chart](https://www.tradingview.com/chart/?symbol=VNQ) | Vanguard Real Estate ETF | VNQ |
-| 36 | 71 | $24.13 | [Chart](https://www.tradingview.com/chart/?symbol=FLBL) | Franklin Senior Loan ETF | FLBL |
+| 32 | 72 | $23.54 | [Chart](https://www.tradingview.com/chart/?symbol=COLB) | Columbia Banking Systems Inc | COLB |
+| 35 | 72 | $51.40 | [Chart](https://www.tradingview.com/chart/?symbol=LW) | Lamb Weston Holdings, Inc. | LW |
+| 33 | 71 | $69.18 | [Chart](https://www.tradingview.com/chart/?symbol=PYPL) | PayPal Holdings, Inc. Common Stock | PYPL |
+| 37 | 70 | $24.13 | [Chart](https://www.tradingview.com/chart/?symbol=FLBL) | Franklin Senior Loan ETF | FLBL |
 | 36 | 69 | $96.18 | [Chart](https://www.tradingview.com/chart/?symbol=RWR) | SPDR Dow Jones REIT ETF | RWR |
-| 38 | 67 | $42.83 | [Chart](https://www.tradingview.com/chart/?symbol=SPYD) | SPDR Portfolio S&P 500 High Dividend ETF | SPYD |
-| 39 | 66 | $20.59 | [Chart](https://www.tradingview.com/chart/?symbol=PEY) | Invesco High Yield Equity Dividend Achievers ETF | PEY |
+| 36 | 68 | $12.54 | [Chart](https://www.tradingview.com/chart/?symbol=NU) | Nu Holdings Ltd. | NU |
 
 ## **Methodology**
 
